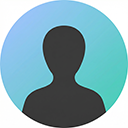
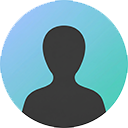
v1.0.3 - 紹介ページ作成

diff --git a/docs/app-page.md b/docs/app-page.md
@@ -1,0 +1,37 @@
+# Title Suffixer 紹介ページ設定
+
+## キャッチフレーズ（app-cp）
+
+タブのタイトルで見分けを
+複数タブを開いても一目で区別
+
+## Chrome Web Store
+
+- **app-weburl**: https://chromewebstore.google.com/detail/title-suffixer/opajfafebbaamfbkkdhfkbbbkfgbfopf
+- **app-webdesc**: Chrome 拡張機能
+- **platform**: ["web"]
+
+## アイコン・スクリーンショット
+
+- **app-icon**: 1808
+- **app-ss01**: 1791
+- **app-ss01width**: 1280
+
+## KV背景・キー色
+
+- **app-kvbg**: 1792
+- **app-keycolor**: `#6b6b6b`
+- **app-kvbgaddcss**: 以下を明示設定
+  ```
+  background-repeat: no-repeat;
+  background-position: center;
+  background-size: cover;
+  background-blend-mode: multiply;
+  ```
+- **ブレンドモード**: multiply
+
+## 実施済み
+
+- WordPress 紹介ページ作成（ID: 1782、スラッグ: title-suffixer）
+- `.env` 設定（WP_APP_POST_ID, WP_APP_PAGE_URL）
+- 本文・ACF 設定済み
